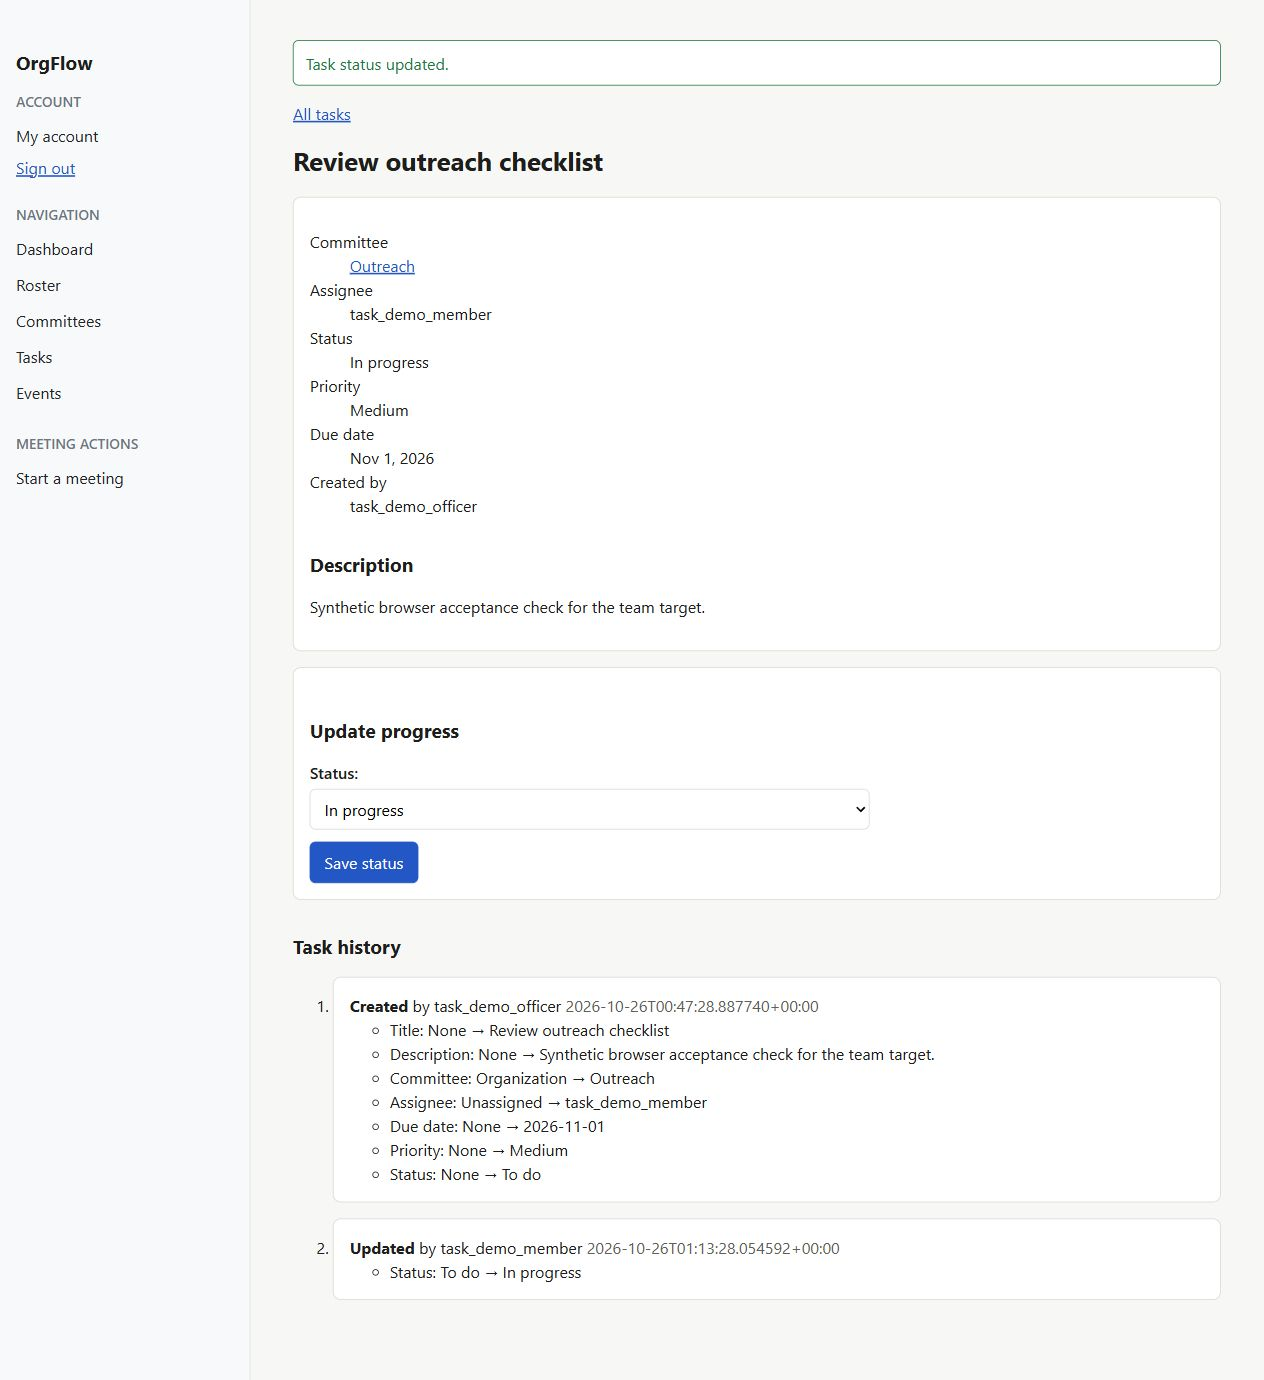
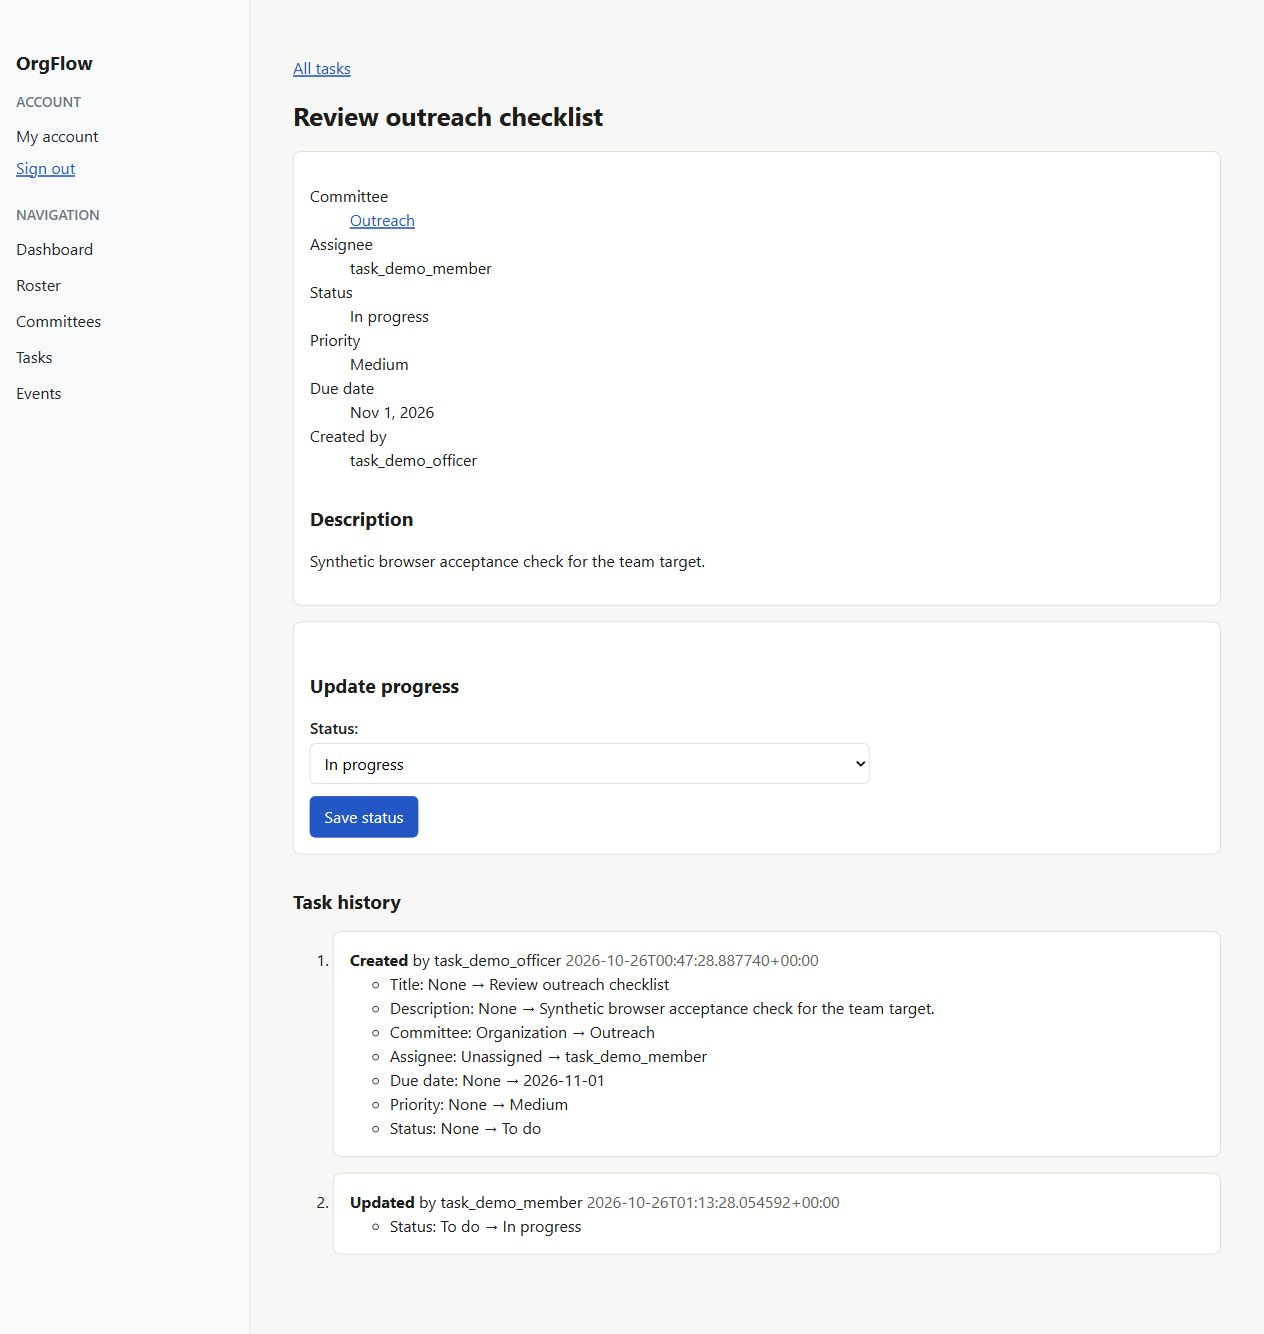
Align meeting navigation with officer access and retain coverage evidence

diff --git a/core/templates/base.html b/core/templates/base.html
@@ -137,12 +137,14 @@
           </div>
         {% endif %}
 
-        <div class="sidebar-group">
-          <h3>Meeting Actions</h3>
-          <ul>
-            <li><a href="{% url 'meetings:create' %}">Start a meeting</a></li>
-          </ul>
-        </div>
+        {% if is_officer %}
+          <div class="sidebar-group">
+            <h3>Meeting Actions</h3>
+            <ul>
+              <li><a href="{% url 'meetings:create' %}">Start a meeting</a></li>
+            </ul>
+          </div>
+        {% endif %}
       {% else %}
         <div class="sidebar-group">
           <h3>Authentication</h3>

diff --git a/core/test_tasks_integration.py b/core/test_tasks_integration.py
@@ -39,6 +39,7 @@ class TaskIntegrationTests(TestCase):
         self.assertNotContains(response, "Officer private task")
         self.assertNotContains(response, "Completed poster")
         self.assertContains(response, reverse("tasks:list"))
+        self.assertNotContains(response, reverse("meetings:create"))
 
     def test_public_and_applicant_dashboards_hide_tasks(self):
         create_task(self.officer, title="Internal follow-up", committee=self.committee)
@@ -48,6 +49,7 @@ class TaskIntegrationTests(TestCase):
             response = self.client.get(reverse("core:dashboard"))
             self.assertNotContains(response, "Internal follow-up")
             self.assertNotContains(response, reverse("tasks:list"))
+            self.assertNotContains(response, reverse("meetings:create"))
 
     def test_committee_task_summary_requires_membership_or_officer_role(self):
         create_task(self.officer, title="Committee work", committee=self.committee)
@@ -79,6 +81,7 @@ class TaskIntegrationTests(TestCase):
     def test_only_approved_meeting_shows_conversion_link(self):
         draft = MeetingDraft.objects.create(title="Reviewed planning", notes="Private notes", created_by=self.officer)
         self.client.force_login(self.officer)
+        self.assertContains(self.client.get(reverse("core:dashboard")), reverse("meetings:create"))
         link = reverse("tasks:import_draft", args=[draft.pk])
         self.assertNotContains(self.client.get(reverse("meetings:detail", args=[draft.pk])), link)
         draft.review(self.officer, DraftStatus.APPROVED)

diff --git a/docs/tasks-quality-evidence.md b/docs/tasks-quality-evidence.md
@@ -116,6 +116,14 @@ Screenshots retained by the root agent:
 the stated navigation and status behavior only; they are not an axe scan, screen-reader
 session or a complete task-form keyboard audit.
 
+A later preview-only navigation check found that Start a meeting was displayed
+to members even though its endpoint already requires an officer. The link is now
+restricted to officers/admins. The seven existing cross-app integration tests
+passed in 2.107 seconds after adding member/applicant absence and officer presence
+assertions. A refreshed synthetic member browser view confirms the link is absent.
+This follow-up changes the shared template and test assertions; the measured
+Accounts/Tasks Python sources below are unchanged.
+
 ## Authorization and integration traceability
 
 The test names below exist in the inspected source and were included in the
@@ -200,6 +208,11 @@ clone, are retained under `tmp/orgflow_tasks_runtime/`:
 - Corresponding `coverage-focused84*` files preserve the intermediate run.
 - `run_focused_branch_coverage.py --full` reproduces the full measurement using
   the isolated coverage and existing preview dependency targets.
+
+The full-run [transcript](evidence/coverage-full267-raw.txt),
+[module summary](evidence/coverage-full267-summary.txt) and
+[aggregate totals](evidence/coverage-full267-totals.json) are also retained in this
+repository for a fresh clone. The detailed JSON and coverage database remain local.
 
 ## Limits and remaining acceptance evidence
 

diff --git a/docs/integration-handoff.md b/docs/integration-handoff.md
@@ -51,6 +51,15 @@ Teammates retain ownership of their features and their final reviews.
   tests and actual browser keyboard checks passed; see
   [the quality evidence](tasks-quality-evidence.md). The workflow now runs those
   navigation checks and JavaScript syntax checks alongside the Django suite.
+- A full coverage run at `8e2f734` also completed all 267 collected tests
+  (265 passed, two live-provider skips) in 59.940 seconds. The measured
+  Accounts/Tasks Python scope achieved **94.59% statement coverage** and
+  **86.92% branch coverage**. This is not a whole-project coverage claim; the
+  quality record lists exclusions and retained summaries.
+- The Start a meeting link now follows the endpoint's existing officer/admin
+  restriction. Seven cross-app integration tests passed in 2.107 seconds after
+  adding navigation assertions, and a synthetic member browser check confirmed
+  the link is absent.
 
 The combined run is retained in
 [the test transcript](evidence/integration-preview-tests.txt).
